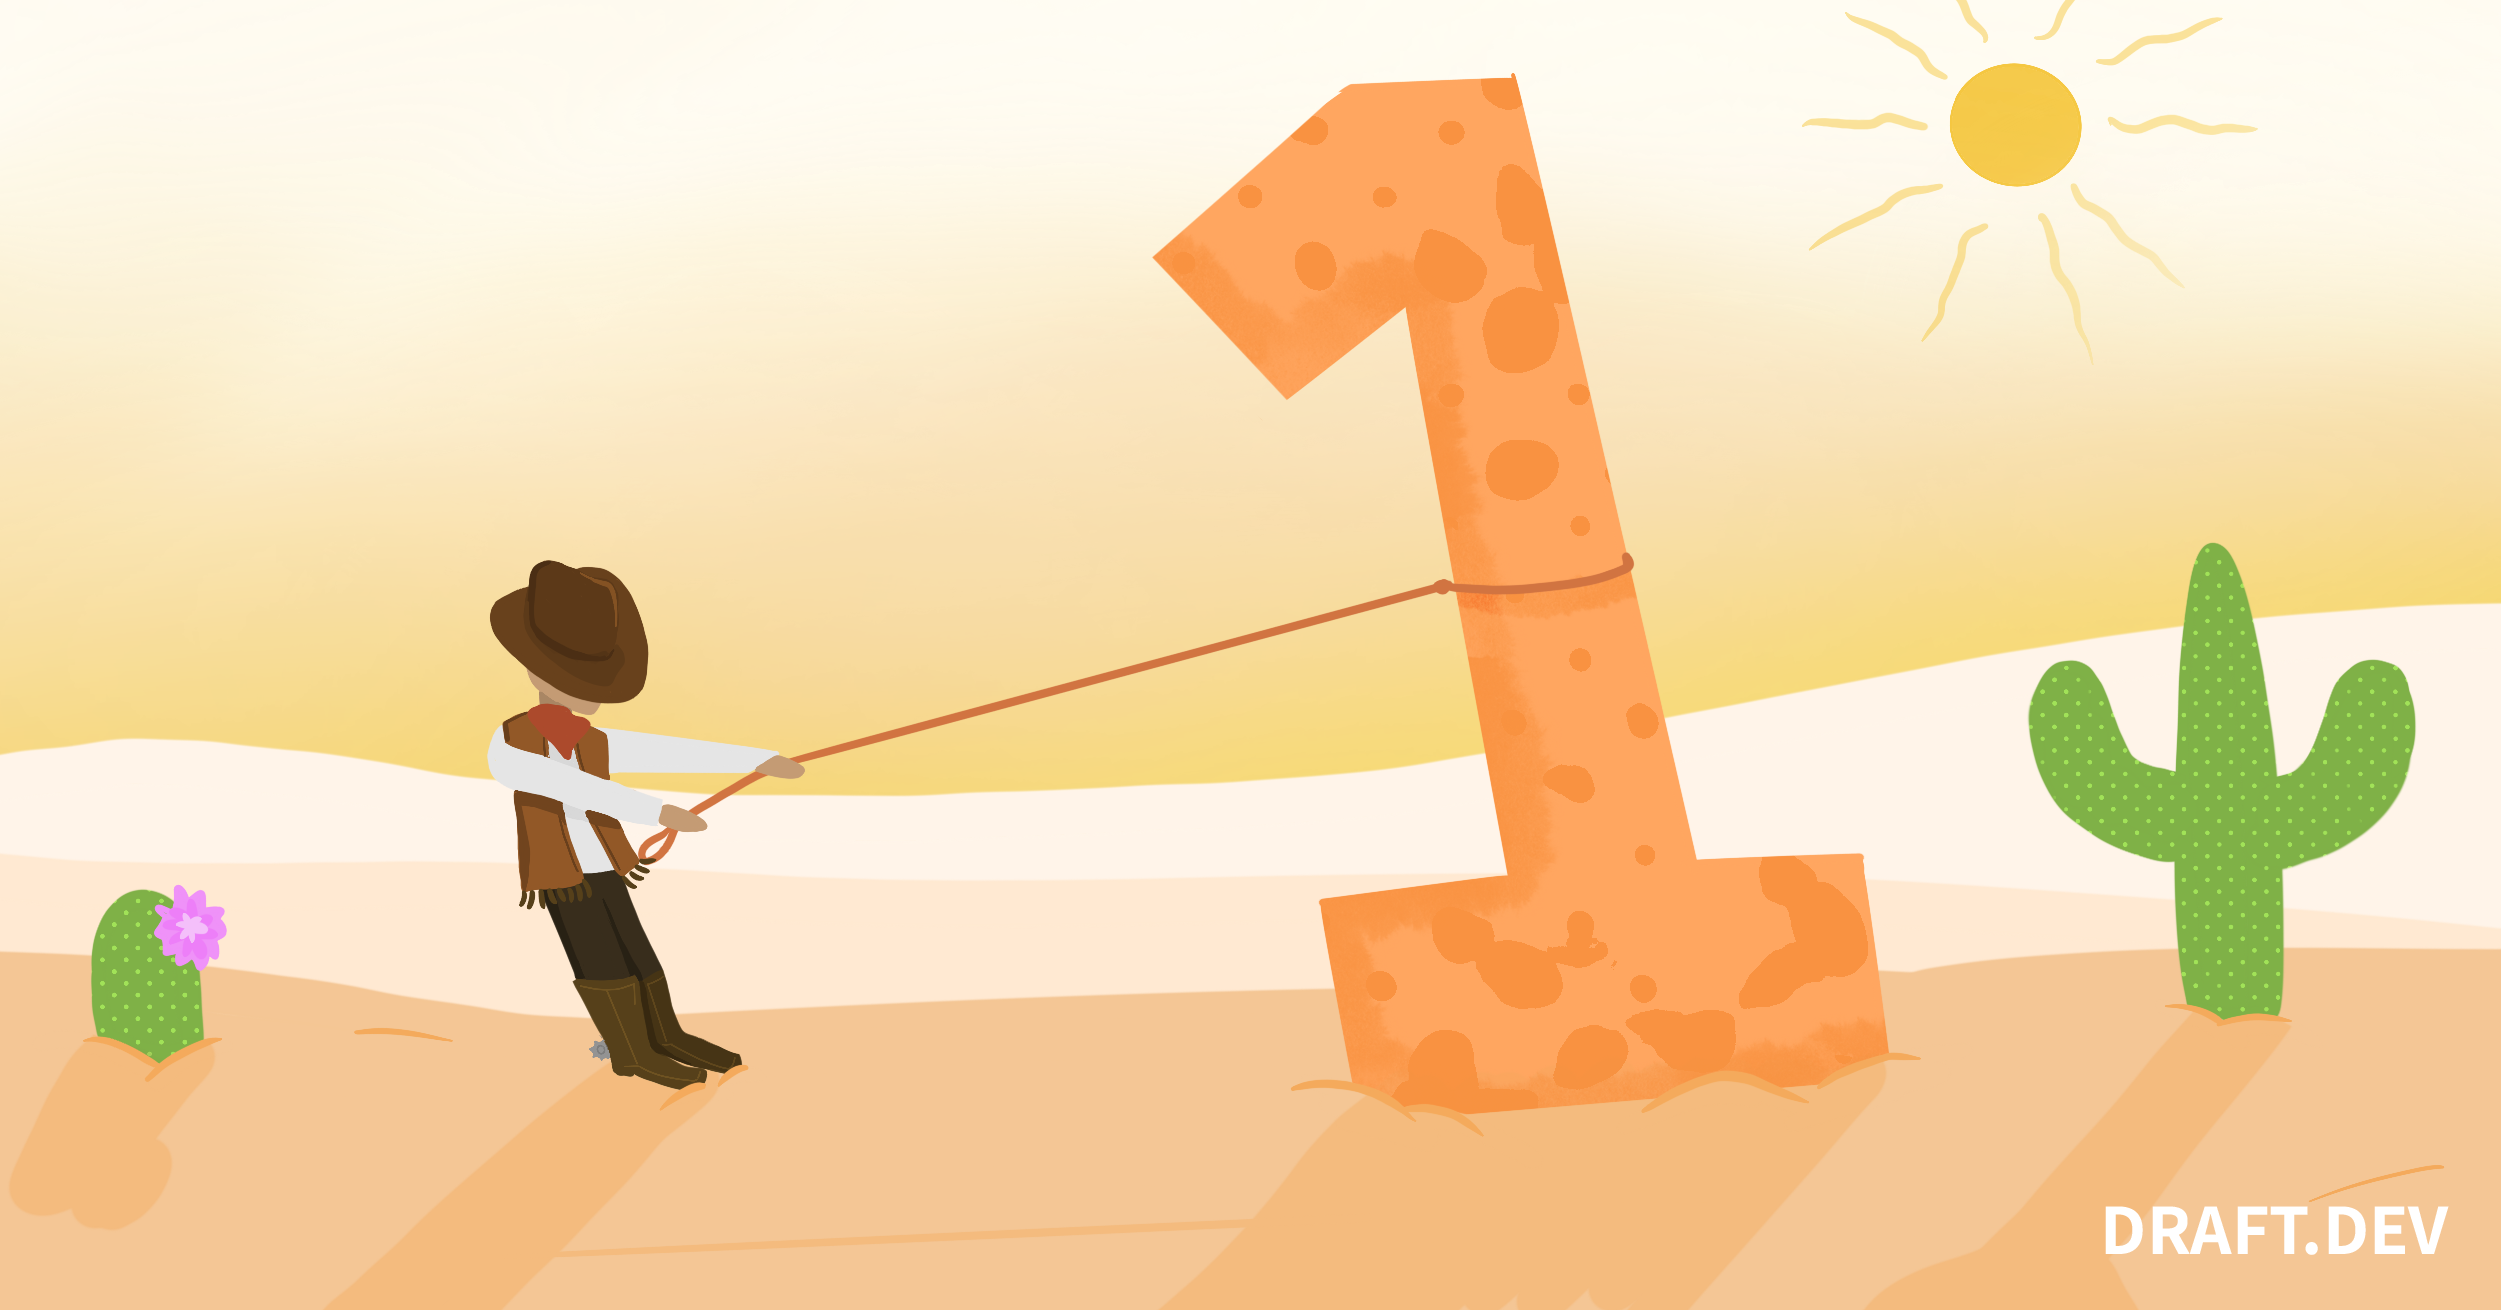
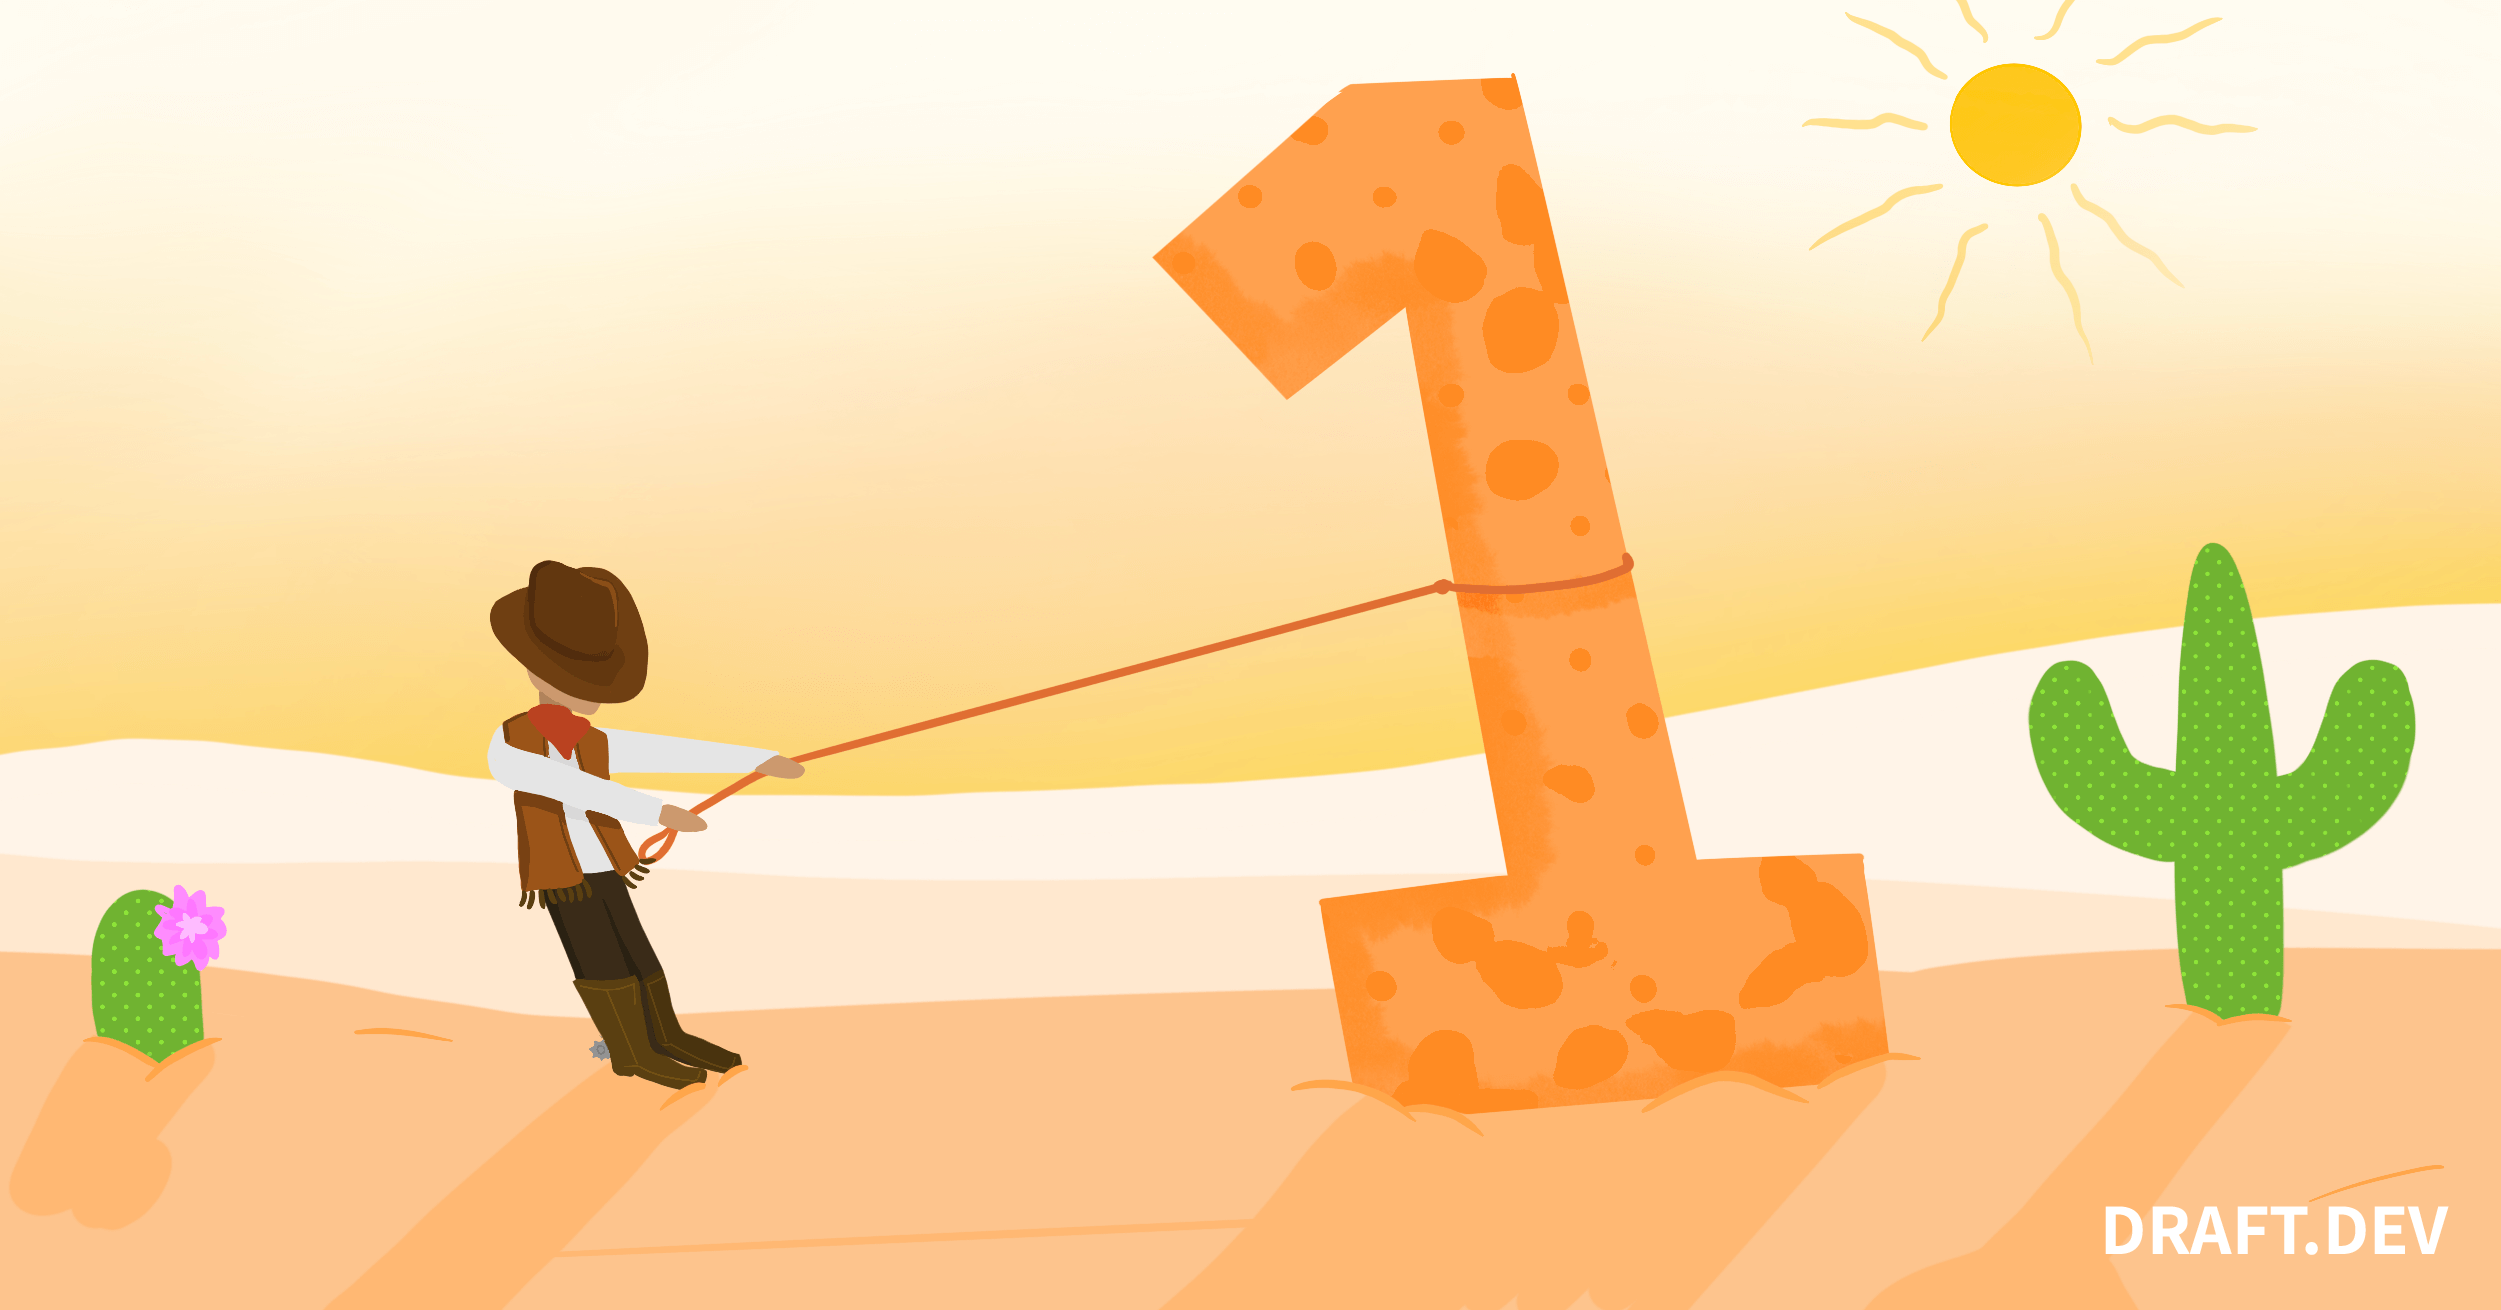
Updating images

diff --git a/_posts/2021-02-08-creating-hugo-themes.md b/_posts/2021-02-08-creating-hugo-themes.md
@@ -6,7 +6,7 @@ description: What is a Hugo Theme and why might you want one? We answer that
 categories: platforms
 author: siddhant
 date: 2021-02-08T18:19:06.799Z
-img: /assets/posts/nsant7blac-2funtitled_artwork-204.png
+img: /assets/posts/hugo-themes.png
 ---
 Lately, developers are adopting static site generators like [Hugo](https://gohugo.io/) to quickly deliver content to their audience. Frameworks like these cut down on issues that pop up with scalability, version control, managing dependencies, and performance.
 
